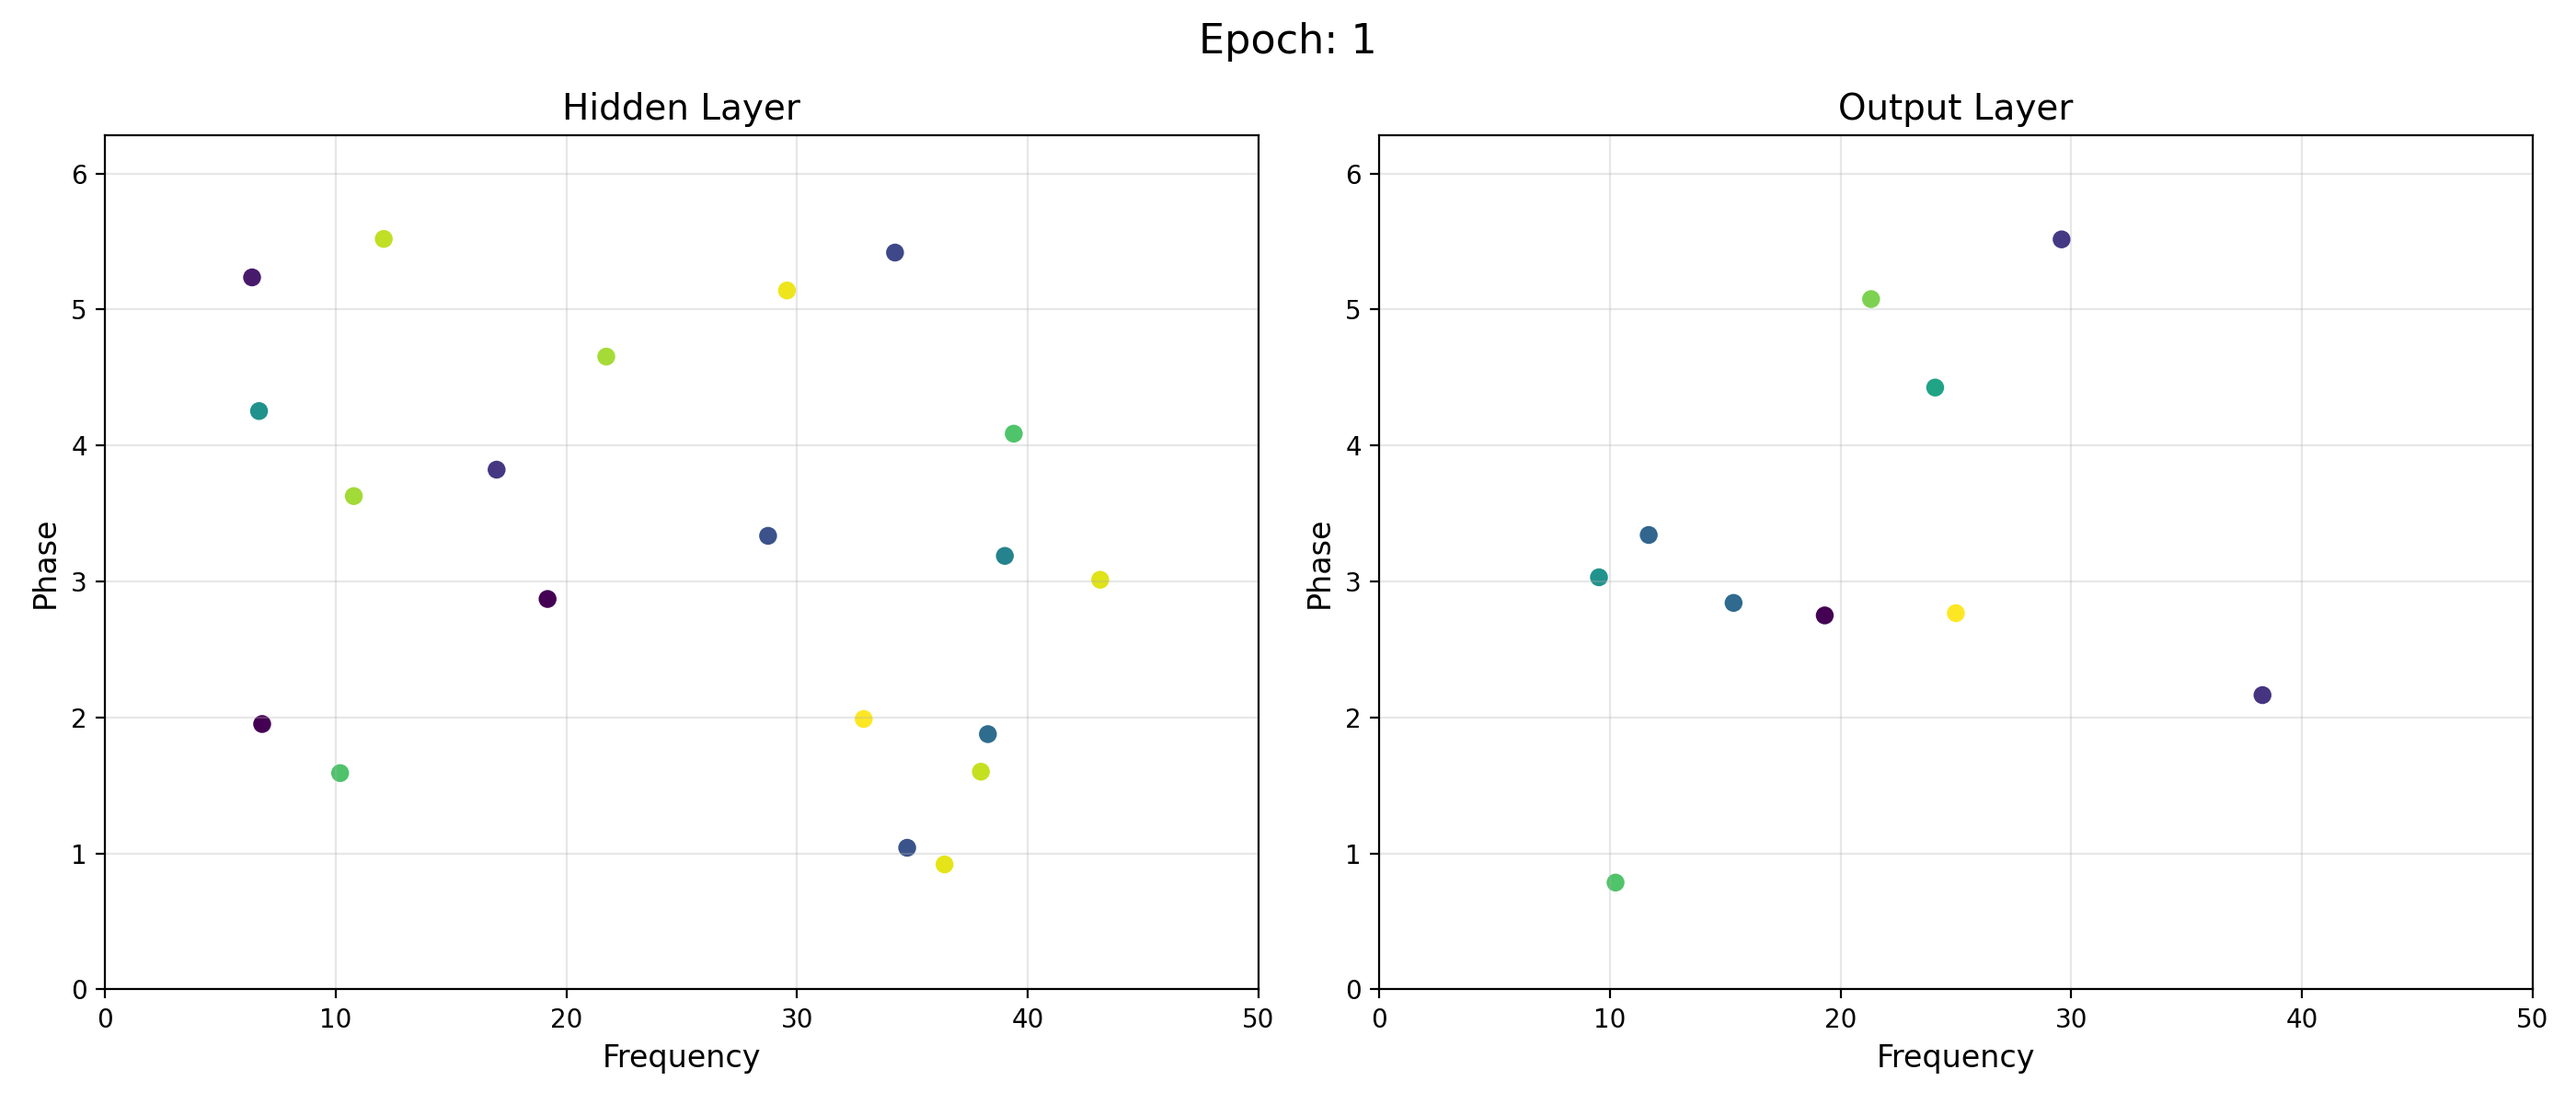
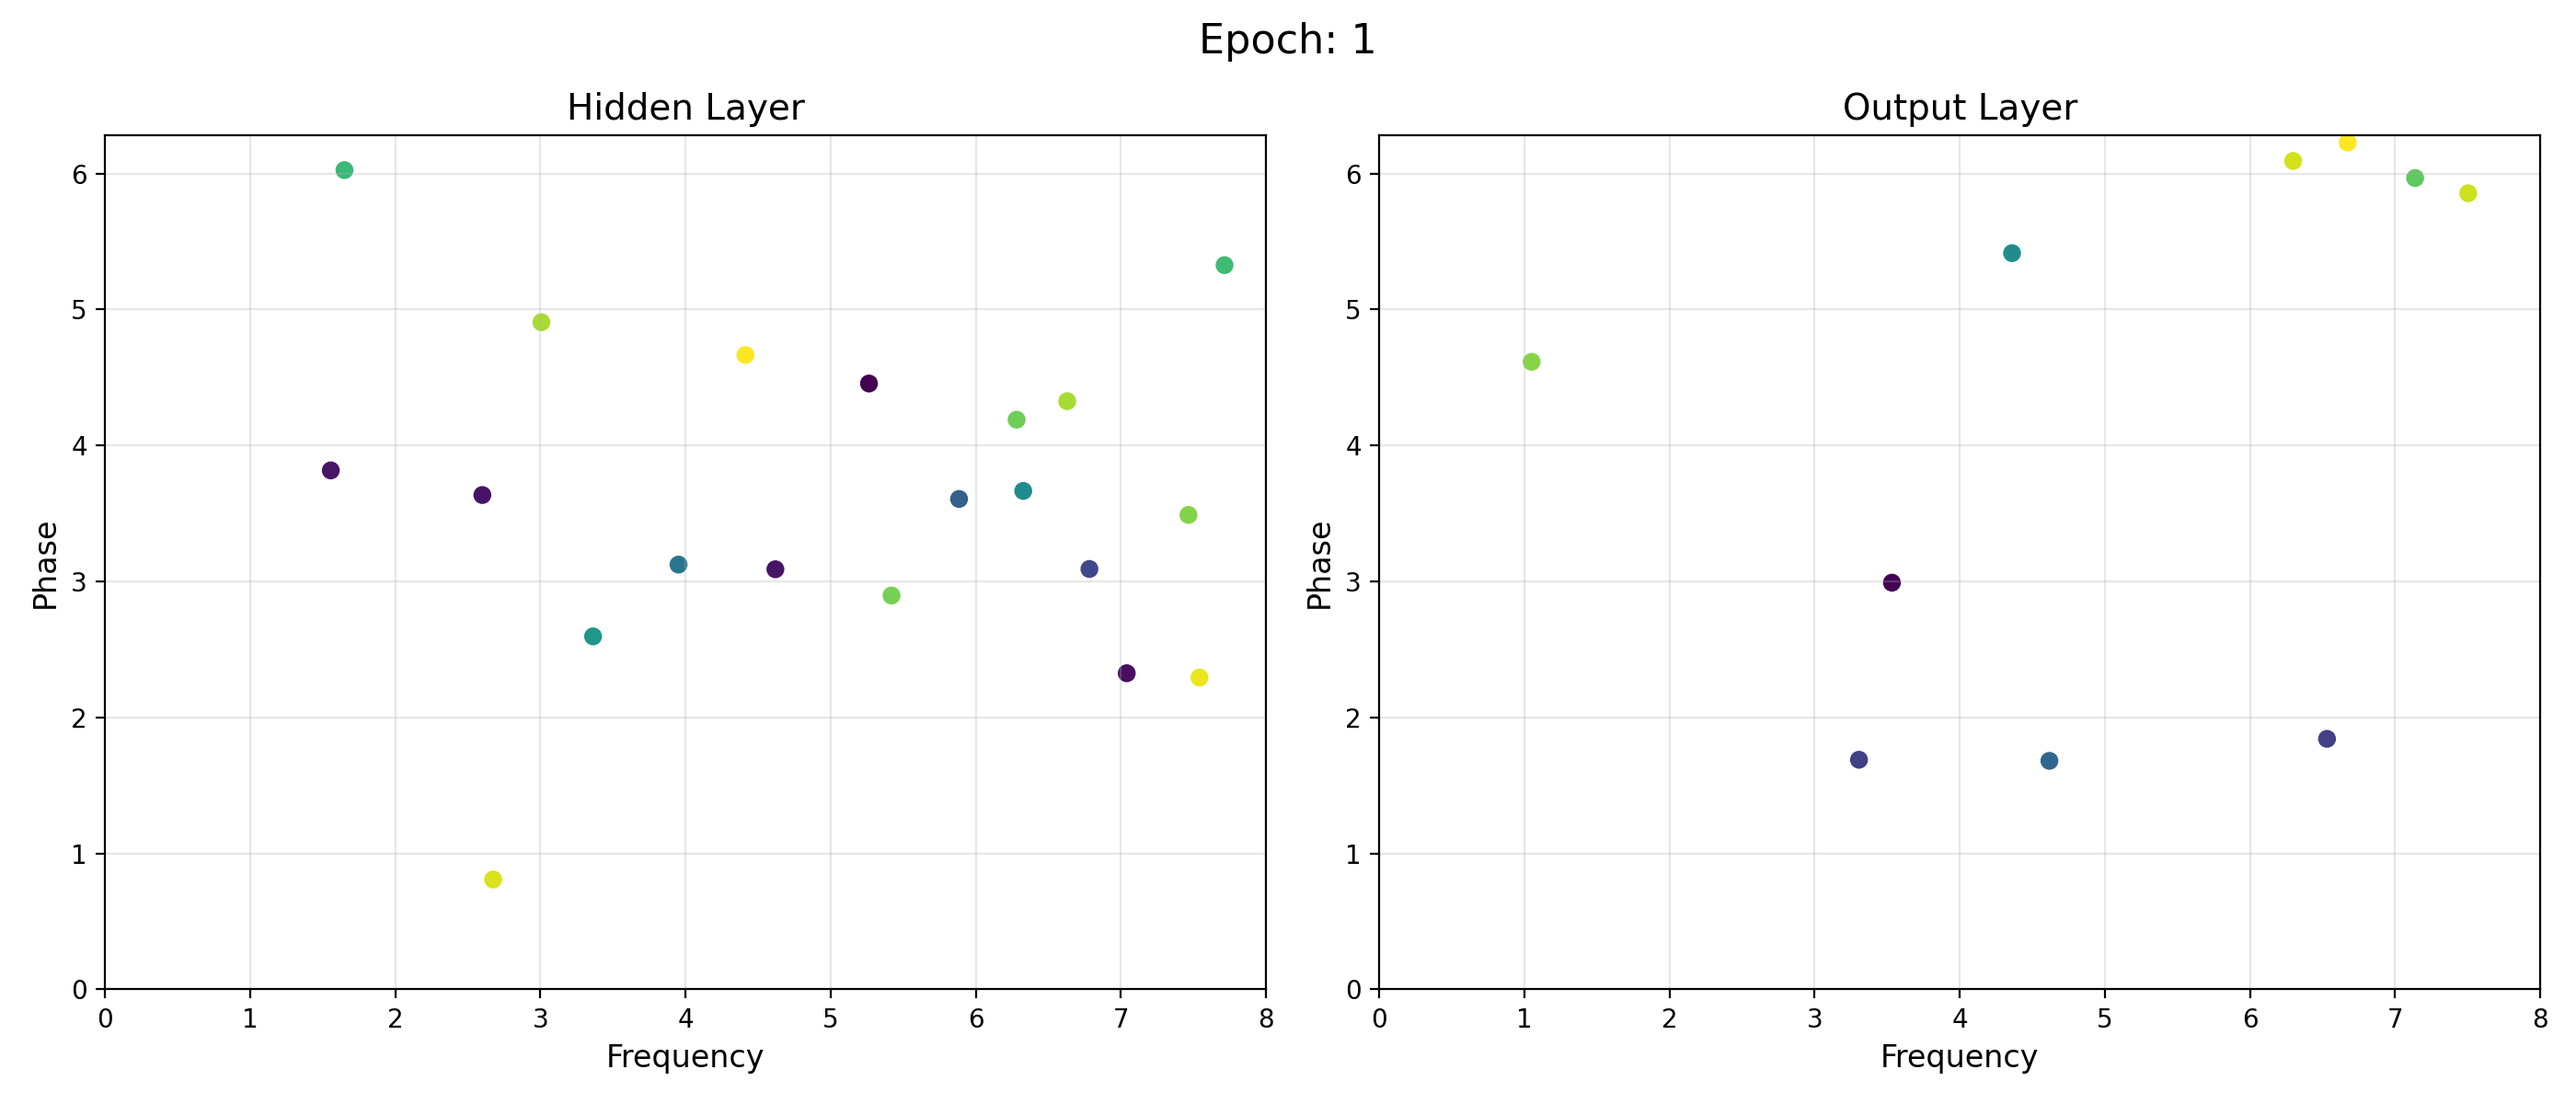
upload files

diff --git a/Classifier.py b/Classifier.py
@@ -33,7 +33,23 @@ class Classifier(nn.Module):
 
      
         self.cce_rate_loss = nn.CrossEntropyLoss()
-        self.optimizer = torch.optim.Adam(self.parameters(), lr=0.0001)
+        #self.optimizer = torch.optim.Adam(self.parameters(), lr=0.0001)
+
+        resonator_params = []
+        other_params = []
+
+        for name, p in self.named_parameters():
+            if any(k in name for k in ["resonating_logit", "freq_logit", "phase_logit"]):
+                resonator_params.append(p)
+            else:
+                other_params.append(p)
+
+        self.optimizer = torch.optim.Adam([
+            {"params": other_params, "lr": 1e-4},
+            {"params": resonator_params, "lr": 1e-2},   # much higher LR
+        ])
+
+
 
         #
         # Metrics

diff --git a/ReLIF.py b/ReLIF.py
@@ -23,7 +23,7 @@ class ReLIF(nn.Module):
             torch.empty(n_hidden).uniform_(-2, 2)
         )
 
-        self.freq_max = 50
+        self.freq_max = 8
         self.freq_logit = nn.Parameter(
             torch.empty(n_hidden).uniform_(-2, 2)
         )
@@ -56,7 +56,7 @@ class ReLIF(nn.Module):
 
         resonating = torch.sigmoid(self.resonating_logit)
 
-        resonator_activation = resonating * torch.sin(
+        resonator_activation = 0.5 * resonating * torch.sin(
             2 * torch.pi * freq * t + phase
         )
 
